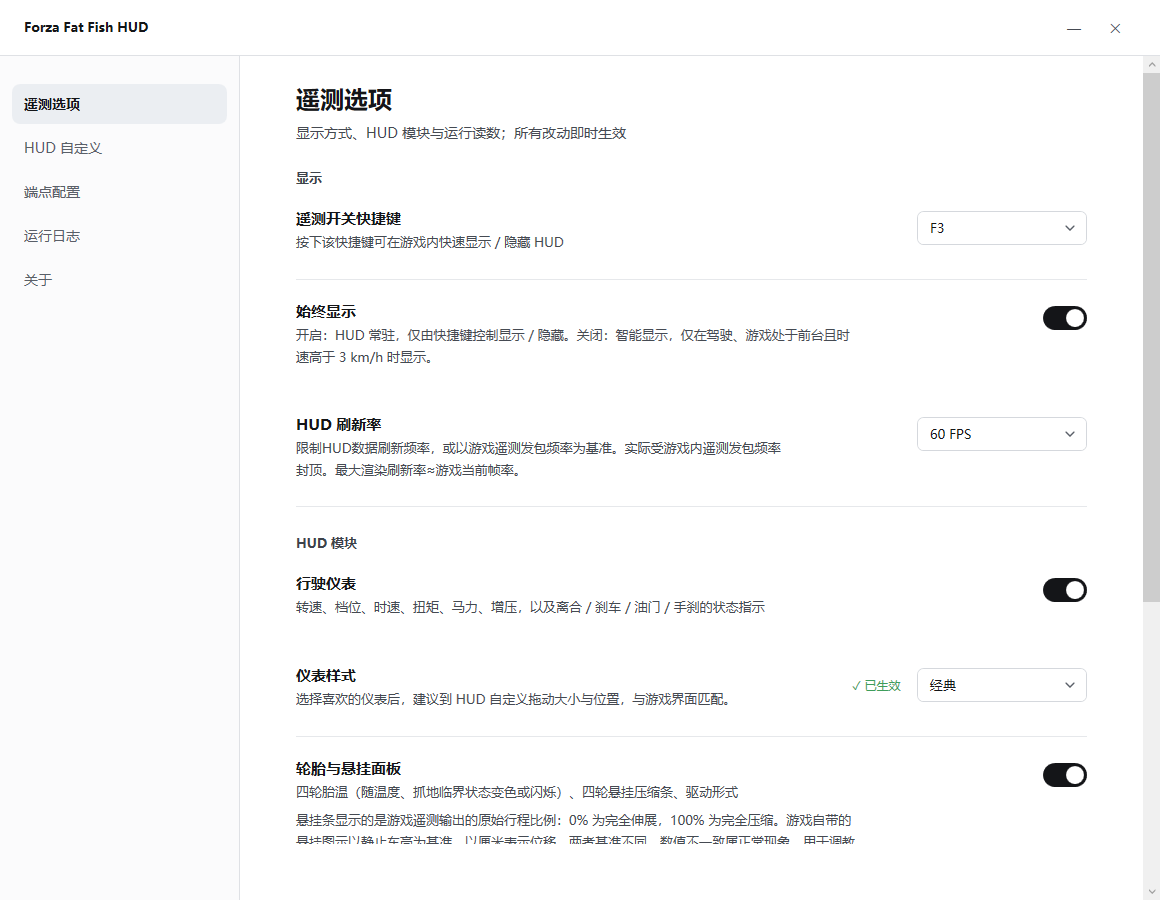
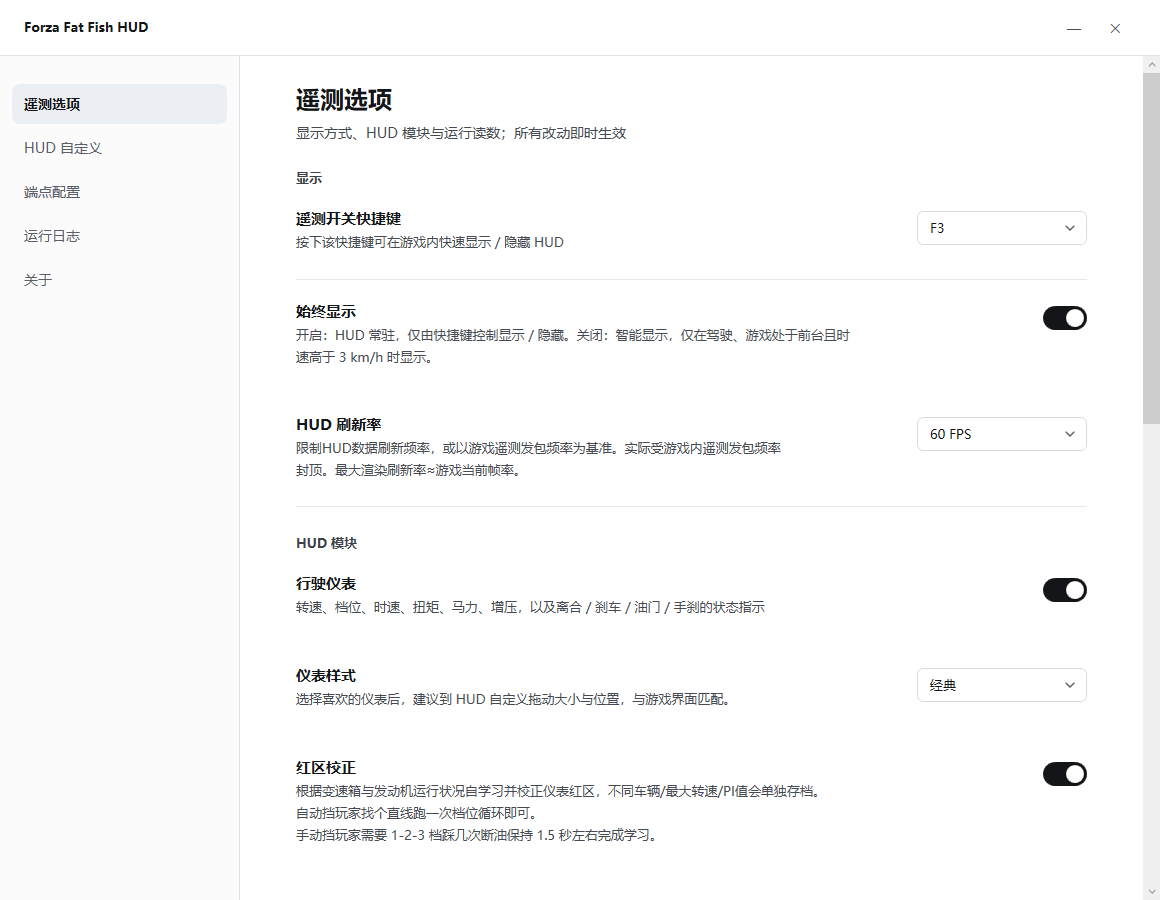
docs: add v1.1.0 feature screenshots to README

diff --git a/docs/项目地图.md b/docs/项目地图.md
@@ -12,11 +12,11 @@
 
 | 项目 | 值 |
 | --- | --- |
-| 地图版本 | **v7.0**（红区校正 + 换挡提示 + 超速提示音） |
-| 代码快照 | 2026-11-05 00:01 (UTC+08:00)，最近改动 `UpdateService.cs` @ 00:01、`AGENTS.md` @ 11-04 23:54 |
-| 基线文件 | `docs/project-map.baseline.json`（**本次重建**：65 文件 / **10,094** 行文本，SHA-256；纯 ASCII） |
+| 地图版本 | **v7.1**（换挡提示位置与最高档规则微调） |
+| 代码快照 | 2026-11-05 00:32 (UTC+08:00)，最近改动 `ForzaOverlay.App.csproj` @ 00:32、`HudLayoutDefaults.cs` @ 00:32 |
+| 基线文件 | `docs/project-map.baseline.json`（**本次重建**：65 文件 / **10,089** 行文本，SHA-256；纯 ASCII） |
 | 版本控制 | 无 Git 仓库（仅有 `.gitignore` / `.gitattributes`），变更检测依赖基线指纹 |
-| 构建 | 单项目构建可用（`src\ForzaOverlay.App\ForzaOverlay.App.csproj`，程序版本 **1.1.0**）；解决方案级构建受本机 SDK workload 目录缺失影响；本轮未重编 |
+| 构建 | 单项目构建可用（`src\ForzaOverlay.App\ForzaOverlay.App.csproj`，程序版本 **1.1.1**）；解决方案级构建受本机 SDK workload 目录缺失影响；本轮未重编 |
 | 项目阶段 | 新功能开发期 |
 | 自动化测试 | 无 |
 
@@ -231,7 +231,7 @@ ID2D1RenderTarget → swap chain → DirectComposition → 透明置顶窗口
 | 行驶仪表 · SHIFT TREE | 820 × 320 | .2628 / .6356 / .4809 | 行驶仪表开 + 样式 = SHIFT TREE |
 | 轮胎与悬挂 | 220 × 212 | .0095 / .2680 / .1831 | 轮胎开关 |
 | HUD 资源占用 | 200 × 140 | .8564 / .3932 / .1383 | 资源开关 |
-| 换挡提示 · 4 灯 | 120 × 40 | .3600 / .2600 / .4500 | 红区校正开 + 换挡提示 = 4灯提示 |
+| 换挡提示 · 4 灯 | 120 × 40 | .4242 / .1821 / .1524 | 红区校正开 + 换挡提示 = 4灯提示 |
 | ~~转向仪表~~ | ~~220 × 118~~ | .4427 / .0167 / .1146 | 已停用（目录条目注释、布局字段保留） |
 
 **缩放与定位**
@@ -282,7 +282,7 @@ ID2D1RenderTarget → swap chain → DirectComposition → 透明置顶窗口
 
 - 120×40 无底板，仅 4 颗半径 10 的圆灯（间距 9，y=20，起点 6.5）；条件：`EnableRedlineCalibration` + `ShiftHintStyle = Rgb3`。
 - 灯序：绿常亮 → 黄（比例 ≥ 红区 − 10%）→ 红（比例 ≥ 红区）→ 红（比例 ≥ 换挡点）；换挡点 = 断油点 − (最大转速 − 断油点) × 0.32。
-- 已学到该车最高档且当前档位 ≥ 最高档时不绘制（最高档无需升挡提示）。
+- 未学到断油点时第 4 灯阈值回退为红区起点；绘制侧不再按“最高档”跳过（`MaxGearSeen` 仅由学习器维护）。
 
 **显示判定**（`HudVisibilityRules.Evaluate`）：
 
@@ -564,6 +564,7 @@ HUD 真正显示还需 §5.1 的句柄/最小化/前台/驾驶/速度条件。`A
 - 断油点识别：WOT（油门 ≥ 0.90、刹车 ≤ 0.05）+ 非 1 档打滑 + 持续转向 ≤ 0.5s + 转速 ≥ 最大转速 × 0.75，1.5s 窗口内需出现锯齿（≥ 2 次上升、≥ 3 次回落、振幅 ≥ 100 RPM 或低转机 ≥ 60）且速度不再上升；首次为候选值，二次在 ±2% 内才确认，中位数保存（最多 10 个样本，超 ±2% 连续 5 次则重学）。
 - 红区换算：`红区 = 最大转速 − (最大转速 − 断油点) × 1.7`（断油比例 < 0.88 的老爷车用 1.9），夹在 0.50–0.98；未学到时回退 0.80。
 - 换挡点：预警 = 断油点 × 0.93、最佳 = 断油点 × 0.98（夹在 0.30–1.0）；4 灯提示的换挡点按 `断油点 − (最大转速 − 断油点) × 0.32` 计算。
+- 最高档：`Update` 每帧记录 `MaxGearSeen`（不受 WOT / 断油采样条件限制），`GetMaxGearSeen` 供查询；绘制侧已不据此跳过提示。
 - 升挡采样：档位 +1 的瞬间，若上一帧油门 ≥ 0.80、转向 ≤ 0.20、平均滑移 ≤ 0.6，按档位记录（每档最多 5 条、总计 60 条，1 档不记）。
 - 关闭红区校正时不采集样本（`PumpPacket` 里判断），避免产生用户未要求的数据。
 
@@ -595,7 +596,7 @@ dotnet build ForzaOverlay.sln -c Debug                               # 解决方
 ### 8.2 发布（`Publish.bat`）
 
 - 产物目录：仓库外 `..\ForzaFatFishHUD-dist`；压缩包 `..\ForzaFatFishHUD-releases\ForzaFatFishHUD-v{Version}-win64.zip`。
-- 版本号取自 `dotnet msbuild -getProperty:Version`（当前 1.1.0）。
+- 版本号取自 `dotnet msbuild -getProperty:Version`（当前 1.1.1）。
 - 四步：`dotnet publish`（self-contained、`win-x64`、`DebugType=None`）→ `rd /s /q` 后复制到输出目录 → 覆盖 `app-dist-template` → 拷入 `LICENSE` / `README.md` / `THIRD-PARTY-NOTICES.txt` 并压缩。
 
 ### 8.3 发行包结构
@@ -693,6 +694,7 @@ ForzaFatFishHUD-dist/
 | v6.0 | 2026-11-03 | HUD 由 WPF 元素整体改写为 GPU 渲染：新增 `Rendering/GpuOverlayWindow.cs`（D3D11 + DirectComposition 独立窗口、消息/渲染双线程、可暂停节流）与 `Rendering/ShiftTreeScene.cs`（Direct2D 绘制全部面板），删除 `OverlayWindow` 与 `ViewModels`；新增 SHIFT TREE 仪表与 `Ui/RpmColorScale` 统一转速配色，经典仪表改为 820×150，轮胎面板 220×212 并移除中心差速图，资源面板扩为 200×140 并增加 GPU / 显存；设置中心扩为 5 页（新增「关于」，遥测页新增刷新率与权限横幅）；新增 `Services/HudVisibilityRules`、`Services/ProcessPrivilege`、`Services/UpdateService`、`Services/UpdateApplier` 与 `Ui/UpdateWindow`、`Ui/RpmColorScale`；产品更名为 Forza Fat Fish HUD，新增 `LICENSE`、`README.md`、`THIRD-PARTY-NOTICES.txt`、`app.manifest`、`AGENTS.md` 与 `Assets/Images`；发布产物改为带版本号 zip。60 文件 / 8,231 行文本。 |
 | v6.1 | 2026-11-03 | 默认值与提示微调：`AlwaysShowHud` 默认改为开启；四套模块默认坐标更新为 GHOST `.4824/.6738/.2888`、SHIFT TREE `.2628/.6356/.4809`、轮胎 `.0095/.2680/.1831`、资源 `.8564/.3932/.1383`；仪表样式与画面比例切换新增 2s 行内“✓ 已生效”提示（`StyleHint` / `AspectHint`）；更新检查改为每次运行只请求一次并缓存结果，手动检查无更新时提示“已是最新版本”；复制仓库地址后回读剪贴板校验；HUD 视口改为每次显隐刷新同步并记录变化，识别到句柄时立即同步一次；`AGENTS.md` 增加待办清单。60 文件 / 8,308 行文本。 |
 | v7.0 | 2026-11-05 | 新增三套辅助功能：① 红区校正——`Core/Learning/ShiftPointLearner` 从遥测学习断油点（WOT 锯齿平台 + 速度平台 + 转向/打滑过滤），按车与调校分档存入 `data/shift-learning.json`，据此校正经典转速条、GHOST 30 段转速、SHIFT TREE 转速弧与换挡灯；② 换挡提示——新增 `HudShiftHintStyle`（关闭 / 4灯提示）与新 HUD 模块“换挡提示 · 4 灯”（120×40，`ShiftHintRgb3Layout`），4 灯分别对应黄区、红区、换挡点；③ 超速提示音——新增 `Services/OverspeedSoundPlayer` 与 `Assets/Sounds/AE86windchime.mp3`，可设触发时速 / 3·5·10·一直响 / 延迟 / 音量 / 自定义 MP3，支持预览。设置页「遥测选项」增加红区校正、换挡提示、超速提示音三组控件，`RpmColorScale.At` 增加“红区比例”重载（黄区 = 红区 −10%）；配置新增 9 个字段，程序版本升至 1.1.0；新增 `.gitattributes`。65 文件 / 10,094 行文本。 |
+| v7.1 | 2026-11-05 | 换挡提示微调：默认位置改为 `.4242 / .1821 / .1524`（宽度 0.1524）；绘制侧移除“已到最高档就不画”的提前返回，改为 `ShiftPointLearner.Update` 每帧记录该车最高档（`MaxGearSeen`），`GetMaxGearSeen` 保留查询；程序版本升至 1.1.1。65 文件 / 10,089 行文本。 |
 
 ---
 
@@ -736,7 +738,7 @@ $current.Keys | Where-Object { $_ -notin $base.path } | ForEach-Object { "ADDED 
 
 ### 第 3 步：留痕
 
-1. 提升版本：`v7.0 → v7.1`。
+1. 提升版本：`v7.1 → v7.2`。
 2. 更新 §0 快照时间、最近改动、文件数/行数。
 3. 在 §11 追加一行。
 4. 用附录脚本重写基线，并确认 `diffs=0`。

diff --git a/README.md b/README.md
@@ -34,6 +34,12 @@ Forza Fat Fish HUD 是一个 Windows 桌面 HUD 悬浮层：读取游戏通过 U
 - **全局快捷键**：一键显示/隐藏 HUD
 - **智能显示**：仅在驾驶、游戏处于前台时显示
 
+### 1.1.0 新功能
+
+| 红区校正 / 换挡提示 | 超速提示音 |
+|---|---|
+| ![红区校正与换挡提示](docs/images/features-redline-shift.png) | ![超速提示音](docs/images/features-overspeed.png) |
+
 ## 系统要求
 
 - Windows 10 1709+ / Windows 11（64 位）
